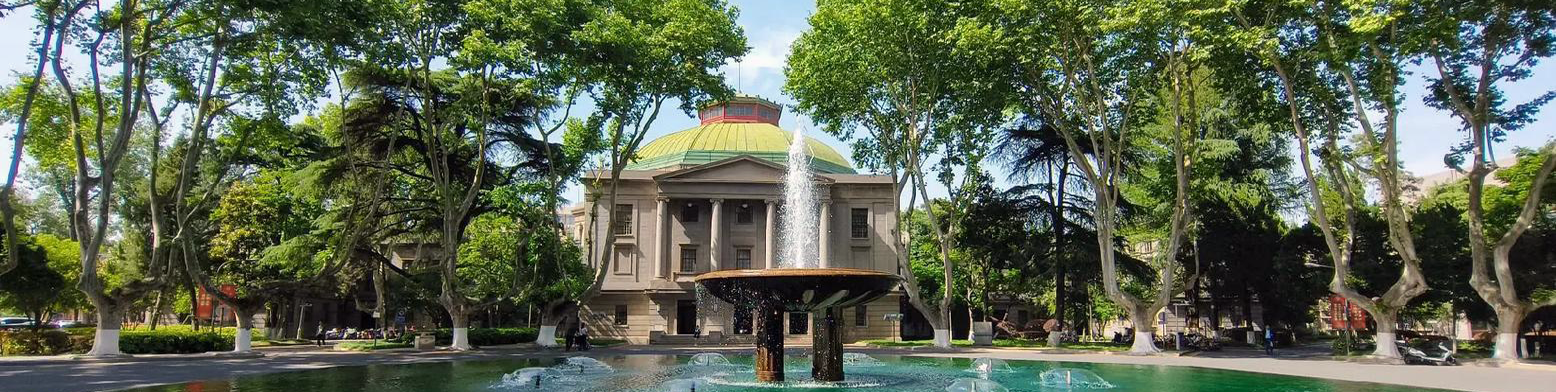
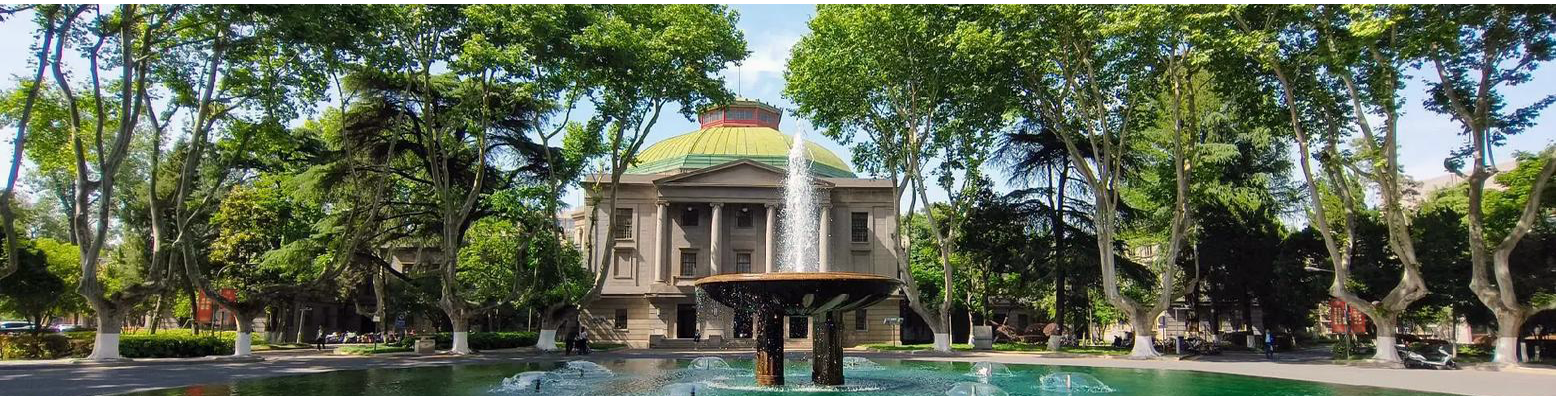
1

diff --git a/index.html b/index.html
@@ -106,7 +106,7 @@
     </nav>
 
     <!-- Top Section -->
-    <section class="top-section" style="width: 100%; height: 480px; background-image: url('static/assets/img/background.png'); background-size: contain;">
+    <section class="top-section" style="width: 100%; height: 476px; background-image: url('static/assets/img/background.png'); background-size: contain;">
         <div class="top-section-content">
             <div class="container px-5">
                 <h2 id="top-section-bg-text" class="text-white display-3 lh-1 font-alt"></h2>
